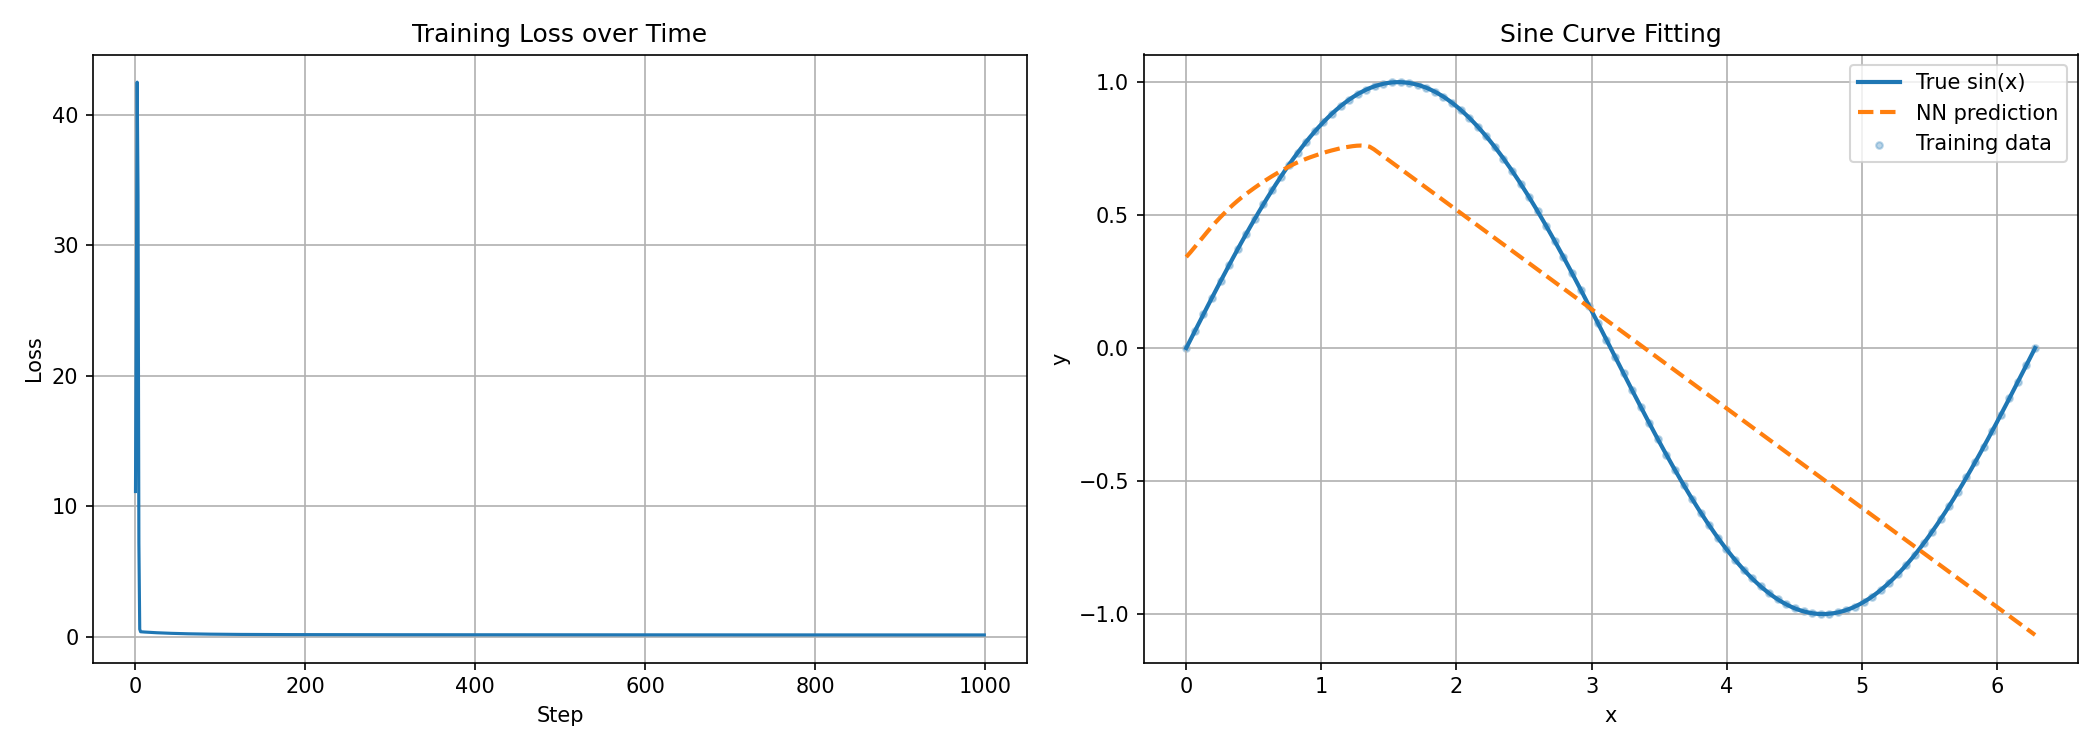
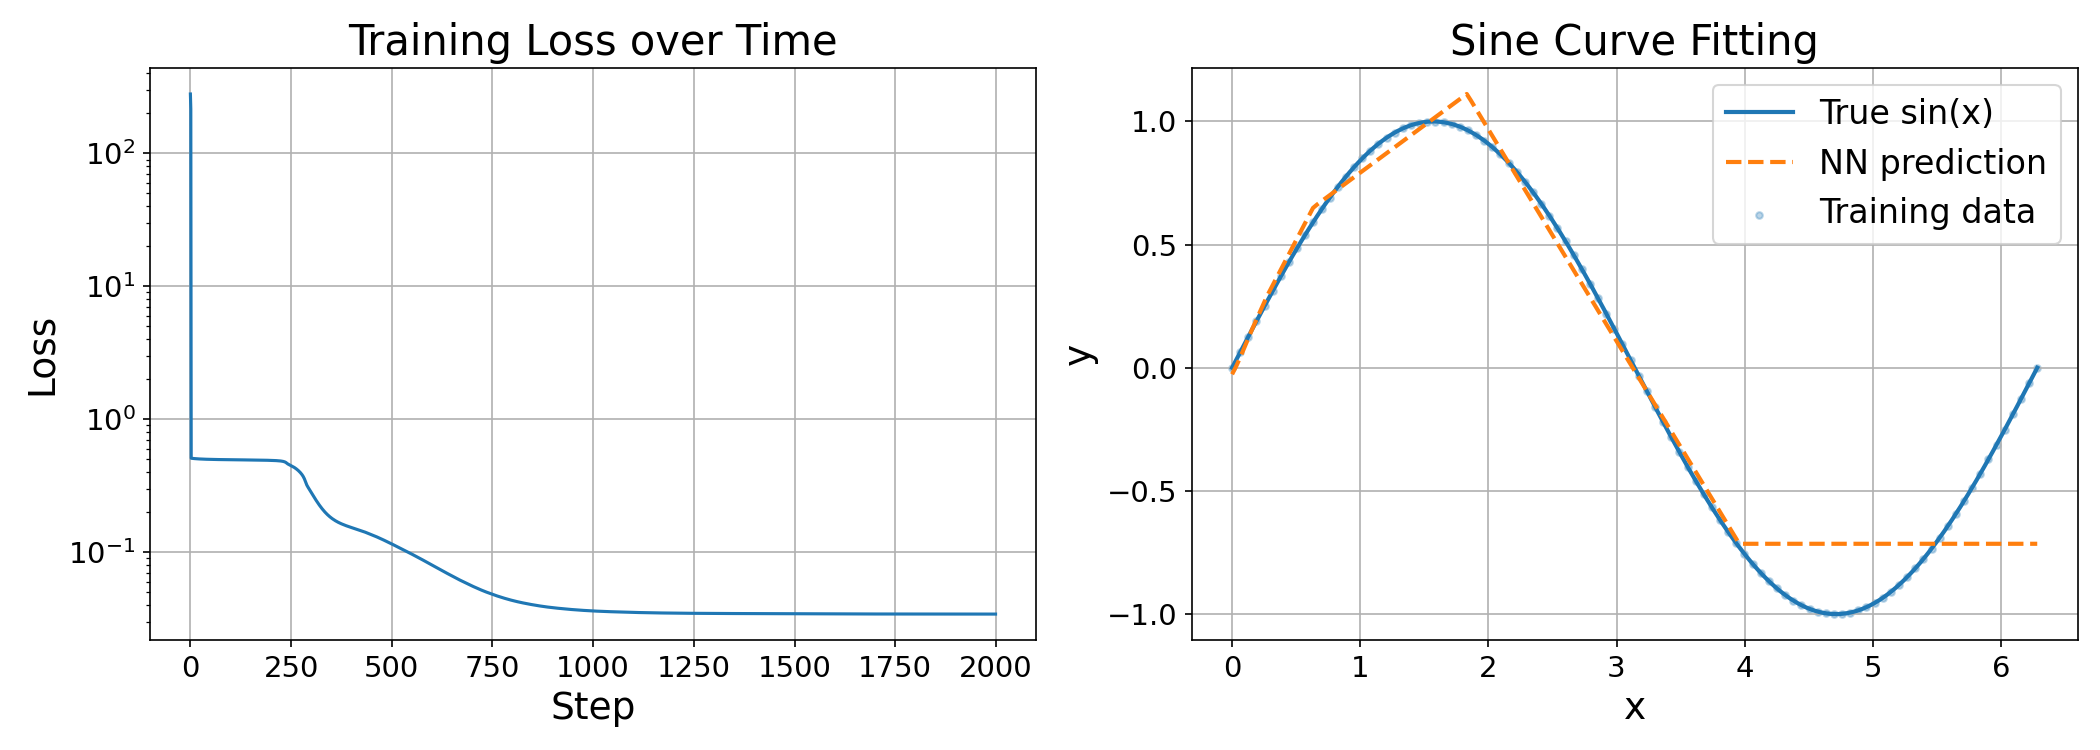
Flesh out examples

diff --git a/examples/nn.py b/examples/nn.py
@@ -1,7 +1,7 @@
 """Simple 2-layer neural network to fit a sine curve using nanojax."""
 
-import numpy as np
 import matplotlib.pyplot as plt
+import numpy as np
 from tqdm import tqdm
 
 from nanojax import grad
@@ -14,9 +14,7 @@ def relu(x):
 
 def forward(x, w1, b1, w2, b2):
     """2-layer neural network forward pass."""
-    # Layer 1
     h = relu(x @ w1 + b1)
-    # Layer 2 (output)
     y = h @ w2 + b2
     return y
 
@@ -27,30 +25,26 @@ def mse_loss(pred, target):
 
 
 def main():
-    # Generate training data
     np.random.seed(42)
     x_train = np.linspace(0, 2 * np.pi, 100).reshape(-1, 1)
     y_train = np.sin(x_train)
 
-    # Initialize parameters
+    # Param init
     hidden_size = 32
-    w1 = np.random.randn(1, hidden_size) * 0.1
-    b1 = np.zeros(hidden_size)
-    w2 = np.random.randn(hidden_size, 1) * 0.1
+    w1 = np.random.randn(1, hidden_size) * 1.0
+    b1 = np.random.randn(hidden_size) * 0.5
+    w2 = np.random.randn(hidden_size, 1) / np.sqrt(hidden_size)
     b2 = np.zeros(1)
 
-    # Define loss function
+    # Define loss function and its gradient
     def loss_fn(w1, b1, w2, b2):
         pred = forward(x_train, w1, b1, w2, b2)
         return mse_loss(pred, y_train)
 
-    # Create gradient function
     grad_fn = grad(loss_fn, argnums=(0, 1, 2, 3), grad_direction=None)
 
-    # Training loop
-    learning_rate = 0.01
-    num_steps = 1000
-
+    learning_rate = 0.05
+    num_steps = 2000
     losses = []
     with tqdm(range(num_steps), desc="Training") as pbar:
         for step in pbar:
@@ -62,41 +56,41 @@ def main():
             b1 = b1 - learning_rate * db1
             w2 = w2 - learning_rate * dw2
             b2 = b2 - learning_rate * db2
-
-            # Compute loss for logging
             loss = loss_fn(w1, b1, w2, b2)
             losses.append(loss)
 
-            # Update progress bar
             pbar.set_postfix({"loss": f"{loss:.6f}"})
 
-    # Generate predictions for plotting
+    # Generate predictions
     x_test = np.linspace(0, 2 * np.pi, 200).reshape(-1, 1)
     y_test = np.sin(x_test)
     y_pred = forward(x_test, w1, b1, w2, b2)
 
-    # Plot results
     fig, (ax1, ax2) = plt.subplots(1, 2, figsize=(14, 5))
+    plt.style.use("seaborn-v0_8-bright")
 
-    # Plot 1: Training loss
+    # Losses plot
     ax1.plot(losses)
-    ax1.set_xlabel("Step")
-    ax1.set_ylabel("Loss")
-    ax1.set_title("Training Loss over Time")
+    ax1.set_yscale("log")
+    ax1.set_xlabel("Step", fontsize=18)
+    ax1.set_ylabel("Loss", fontsize=18)
+    ax1.set_title("Training Loss over Time", fontsize=20)
+    ax1.tick_params(axis="both", which="major", labelsize=14)
     ax1.grid(True)
 
-    # Plot 2: Sine curve fit
+    # Fit plot
     ax2.plot(x_test, y_test, label="True sin(x)", linewidth=2)
     ax2.plot(x_test, y_pred, label="NN prediction", linewidth=2, linestyle="--")
     ax2.scatter(x_train, y_train, alpha=0.3, s=10, label="Training data")
-    ax2.set_xlabel("x")
-    ax2.set_ylabel("y")
-    ax2.set_title("Sine Curve Fitting")
-    ax2.legend()
+    ax2.set_xlabel("x", fontsize=18)
+    ax2.set_ylabel("y", fontsize=18)
+    ax2.set_title("Sine Curve Fitting", fontsize=20)
+    ax2.tick_params(axis="both", which="major", labelsize=14)
+    ax2.legend(fontsize=16)
     ax2.grid(True)
 
     plt.tight_layout()
-    plt.savefig("sine_fit_results.png", dpi=150)
+    plt.savefig("examples/images/sine_fit_results.png", dpi=150)
     print(f"\nFinal loss: {losses[-1]:.6f}")
     print("Plot saved to sine_fit_results.png")
     plt.show()

diff --git a/examples/gaussian_derivatives.py b/examples/gaussian_derivatives.py
@@ -21,20 +21,23 @@ def main():
     grad2_gaussian = grad(grad_gaussian)
     d2y = np.array([grad2_gaussian(np.array(xi)) for xi in x])
 
-    plt.figure(figsize=(10, 6))
+    plt.figure(figsize=(7, 3))
+    plt.style.use("seaborn-v0_8-bright")
     plt.plot(x, y, label="Gaussian", linewidth=2)
     plt.plot(x, dy, label="First derivative", linewidth=2, linestyle="--")
     plt.plot(x, d2y, label="Second derivative", linewidth=2, linestyle=":")
     plt.axhline(y=0, color="k", linewidth=0.5, alpha=0.3)
     plt.axvline(x=0, color="k", linewidth=0.5, alpha=0.3)
     plt.grid(True, alpha=0.3)
-    plt.xlabel("x")
-    plt.ylabel("y")
-    plt.title("Gaussian Distribution and Its Derivatives")
-    plt.legend()
+    plt.xlabel("x", fontsize=19)
+    plt.ylabel("y", fontsize=18)
+    plt.title("Gaussian Derivatives", fontsize=20)
+    plt.legend(loc="lower left", fontsize=8)
     plt.tight_layout()
 
-    plt.savefig("gaussian_derivatives.png", dpi=150, bbox_inches="tight")
+    plt.savefig(
+        "examples/images/gaussian_derivatives.png", dpi=150, bbox_inches="tight"
+    )
     print("Plot saved to gaussian_derivatives.png")
 
 

diff --git a/README.md b/README.md
@@ -1,13 +1,20 @@
-## nanojax
-A small tape-based reverse-mode autodiff library with drop-in support for a subset of `numpy`.
+## nanojax 
 
-Have you ever wanted to compute gradients of functions involving `numpy` operations, but found existing libraries like JAX or Autograd too heavy-weight for your needs? `nanojax` is a minimalist library that provides reverse-mode automatic differentiation (autodiff) for a subset of `numpy` operations, making it easy to compute gradients without the overhead of larger frameworks. The API is a vaguely JAX-like functional API, hence the name `nanojax`.
+<center>
+<figure>
+<img src="examples/images/gaussian_derivatives.png" alt="Gaussian Derivatives" width="600"/>
+<figcaption>Computed using nanojax! See <code>examples/gaussian_derivatives.py</code></figcaption>
+</figure>
+</center>
 
-This is purely an educational project, and is not intended for production use. It is not optimized for speed or memory efficiency, and only supports a limited set of operations. I had fun building it, and I hope you find it interesting too!
+A minimalist tape-based reverse-mode autodiff library with drop-in support for a subset of `numpy`. No additional dependencies are required beyond `numpy`.
+
+This is purely an educational project, and is not intended for production use. It is not optimized for speed or memory efficiency, and supports a limited set of operations. I had fun building it, and I hope you find it interesting too!
 
 ## Usage
 
 Use `numpy` as normal, and call `nanojax.grad` to create gradient functions!
+For a list of supported operations, see the `nanojax/grad_register.py` file.
 
 ```python
 import numpy as np
@@ -17,27 +24,49 @@ def gaussian(x):
     """Standard Gaussian: exp(-x^2/2) / sqrt(2π)"""
     return np.exp(-(x**2) / 2) / np.sqrt(2 * np.pi)
 
+grad_gaussian = grad(gaussian)
+grad2_gaussian = grad(grad(gaussian))  # or grad(grad_gaussian)
+grad3_gaussian = grad(grad(grad(gaussian)))  # or grad(grad2_gaussian)
+# ...
+
+# Use the gradients!
 x = np.linspace(-4, 4, 200)
-y = gaussian(x)
-
-# First derivative
-grad_gaussian = grad(gaussian, argnums=(0,))
-dy = np.array([grad_gaussian(np.array([xi]))[0][0] for xi in x])
-
-# Second derivative (derivative of first derivative)
-grad2_gaussian = grad(
-    lambda x: grad_gaussian(x)[0], argnums=(0,)
-)
-d2y = np.array([grad2_gaussian(np.array([xi]))[0][0] for xi in x])
+dy = np.array([grad_gaussian(np.array(xi)) for xi in x])
+d2y = np.array([grad2_gaussian(np.array(xi)) for xi in x])
+d3y = np.array([grad3_gaussian(np.array(xi)) for xi in x])
 ```
 
-No additional dependencies are required beyond `numpy`.
-For a list of supported operations, see the `nanojax/grad_register.py` file.
+### Training a Neural Network
+See [`examples/nn.py`](examples/nn.py) for a demonstration of a 2-layer MLP used to predict `sin(x)`.
+<center>
+<figure>
+<img src="examples/images/sine_fit_results.png" alt="Fitting 2-layer MLP on sin(x)" width="700"/>
+<figcaption>See <code>examples/nn.py</code> for the full code.</figcaption>
+</figure>
+</center>
 
-### Visualizing Derivatives
+```python
+# Define model and loss
+def forward(x, w1, b1, w2, b2):
+    """2-layer neural network forward pass."""
+    h = np.maximum(x @ w1 + b1, 0)
+    y = h @ w2 + b2
+    return y
 
-![Gaussian derivatives](examples/images/gaussian_derivatives.png)
+def mse_loss(pred, target):
+    """Mean squared error loss."""
+    return np.mean((pred - target) ** 2)
 
-Computed using nanojax! See `examples/gaussian_derivatives.py` and `examples/nn.py` for more.
+def loss_fn(w1, b1, w2, b2):
+    pred = forward(x_train, w1, b1, w2, b2)
+    return mse_loss(pred, y_train)
+
+# Get gradient of params w.r.t loss
+grad_fn = grad(loss_fn, argnums=(0, 1, 2, 3), grad_direction=None)
+dw1, ... = grad_fn(w1, b1, w2, b2)
+
+# Update params
+w1 = w1 - learning_rate * dw1
+```
 
 The project was inspired by [`karpathy/micrograd`](https://github.com/karpathy/micrograd/), although the approaches used are significantly different.
